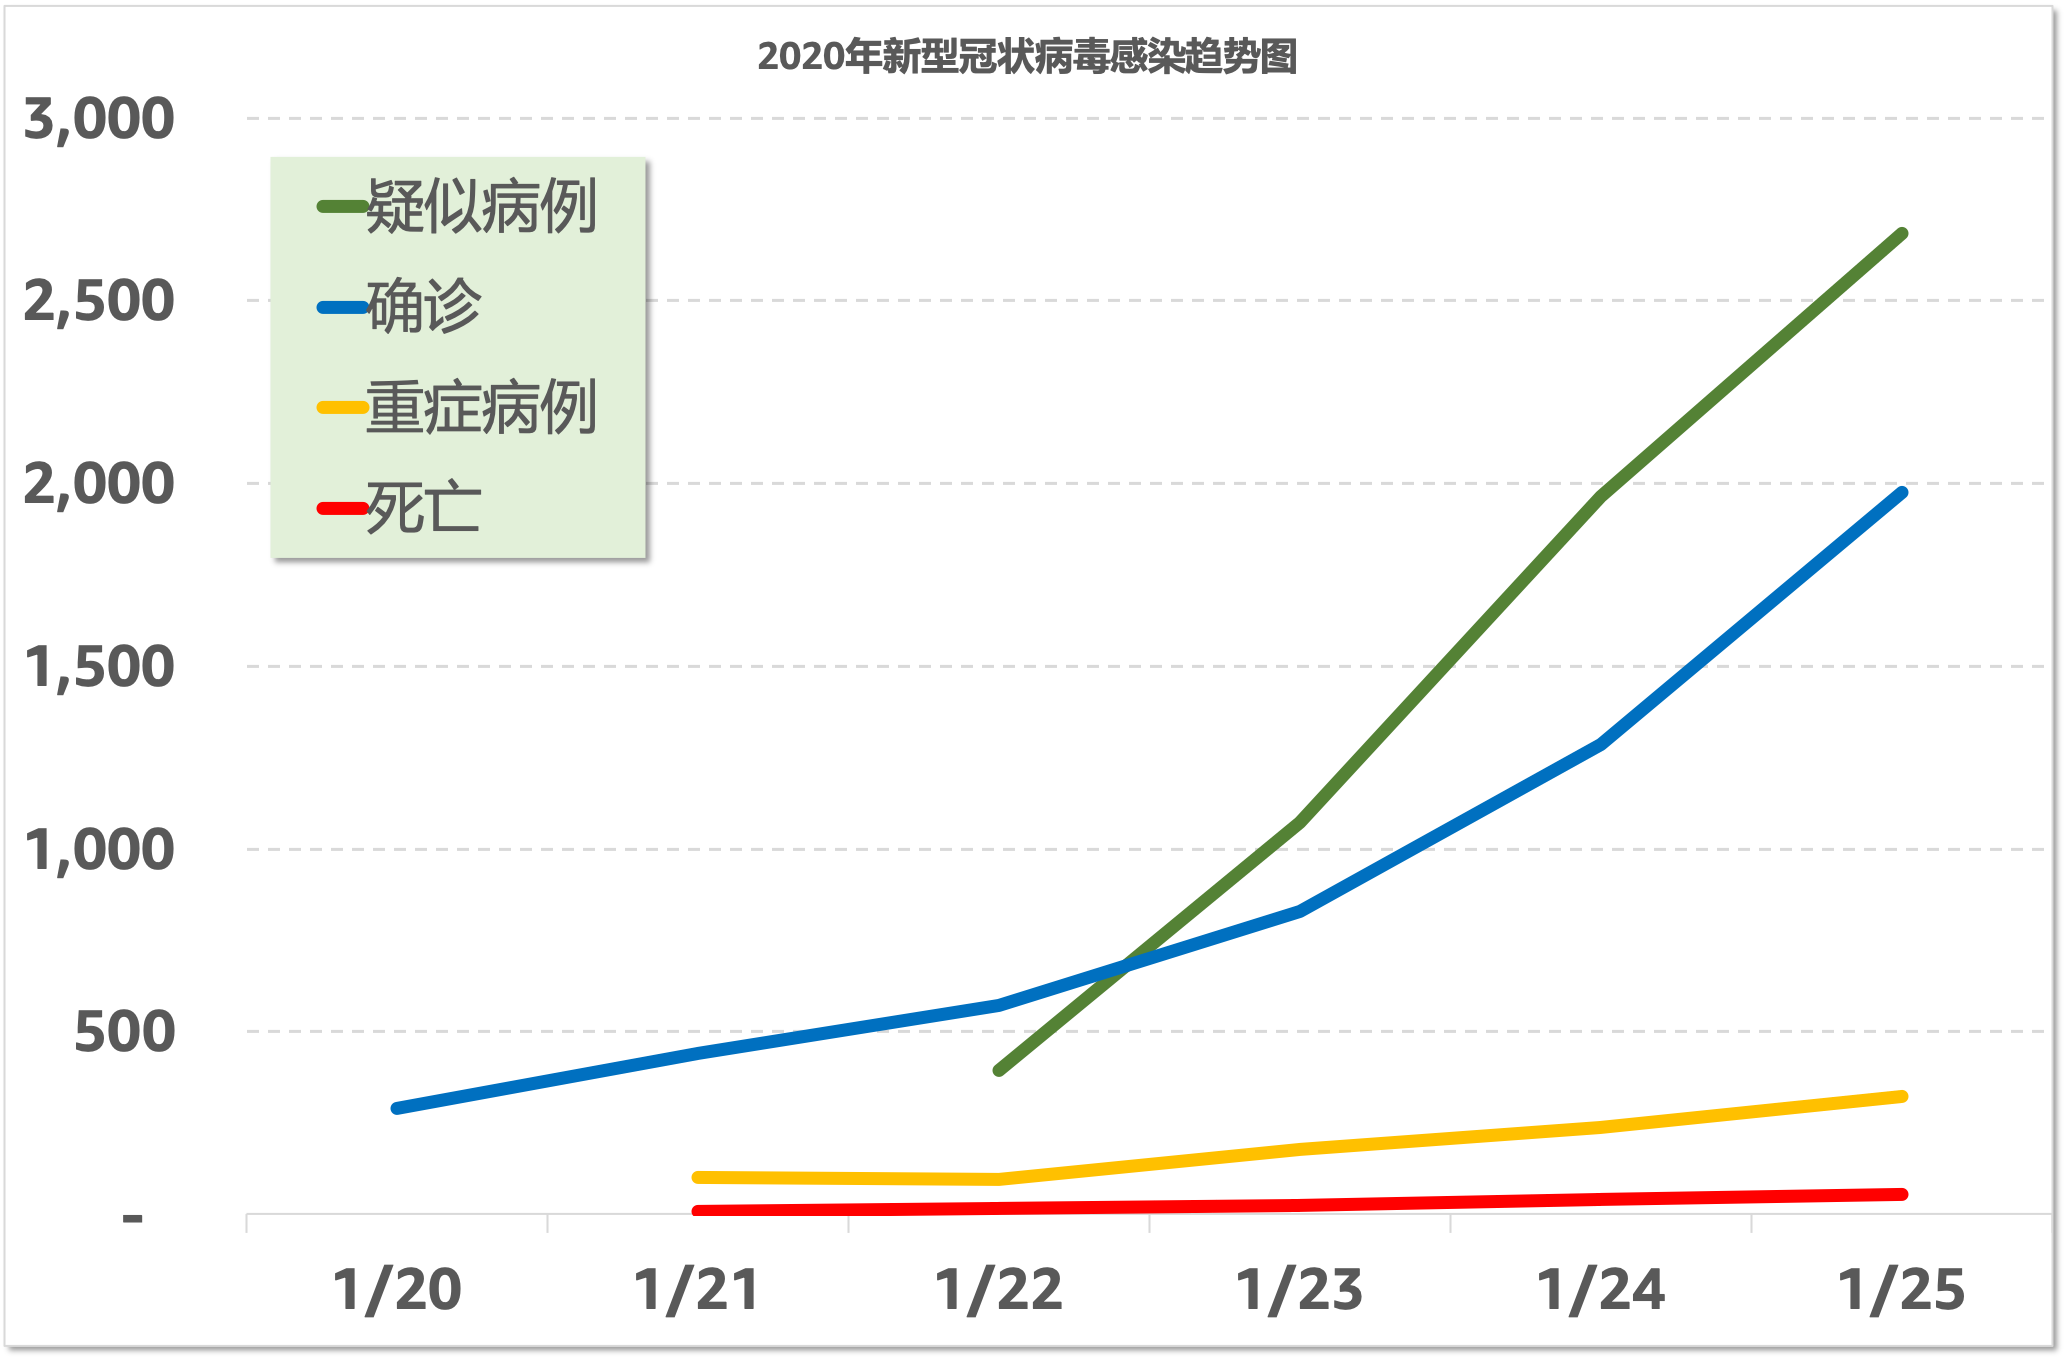
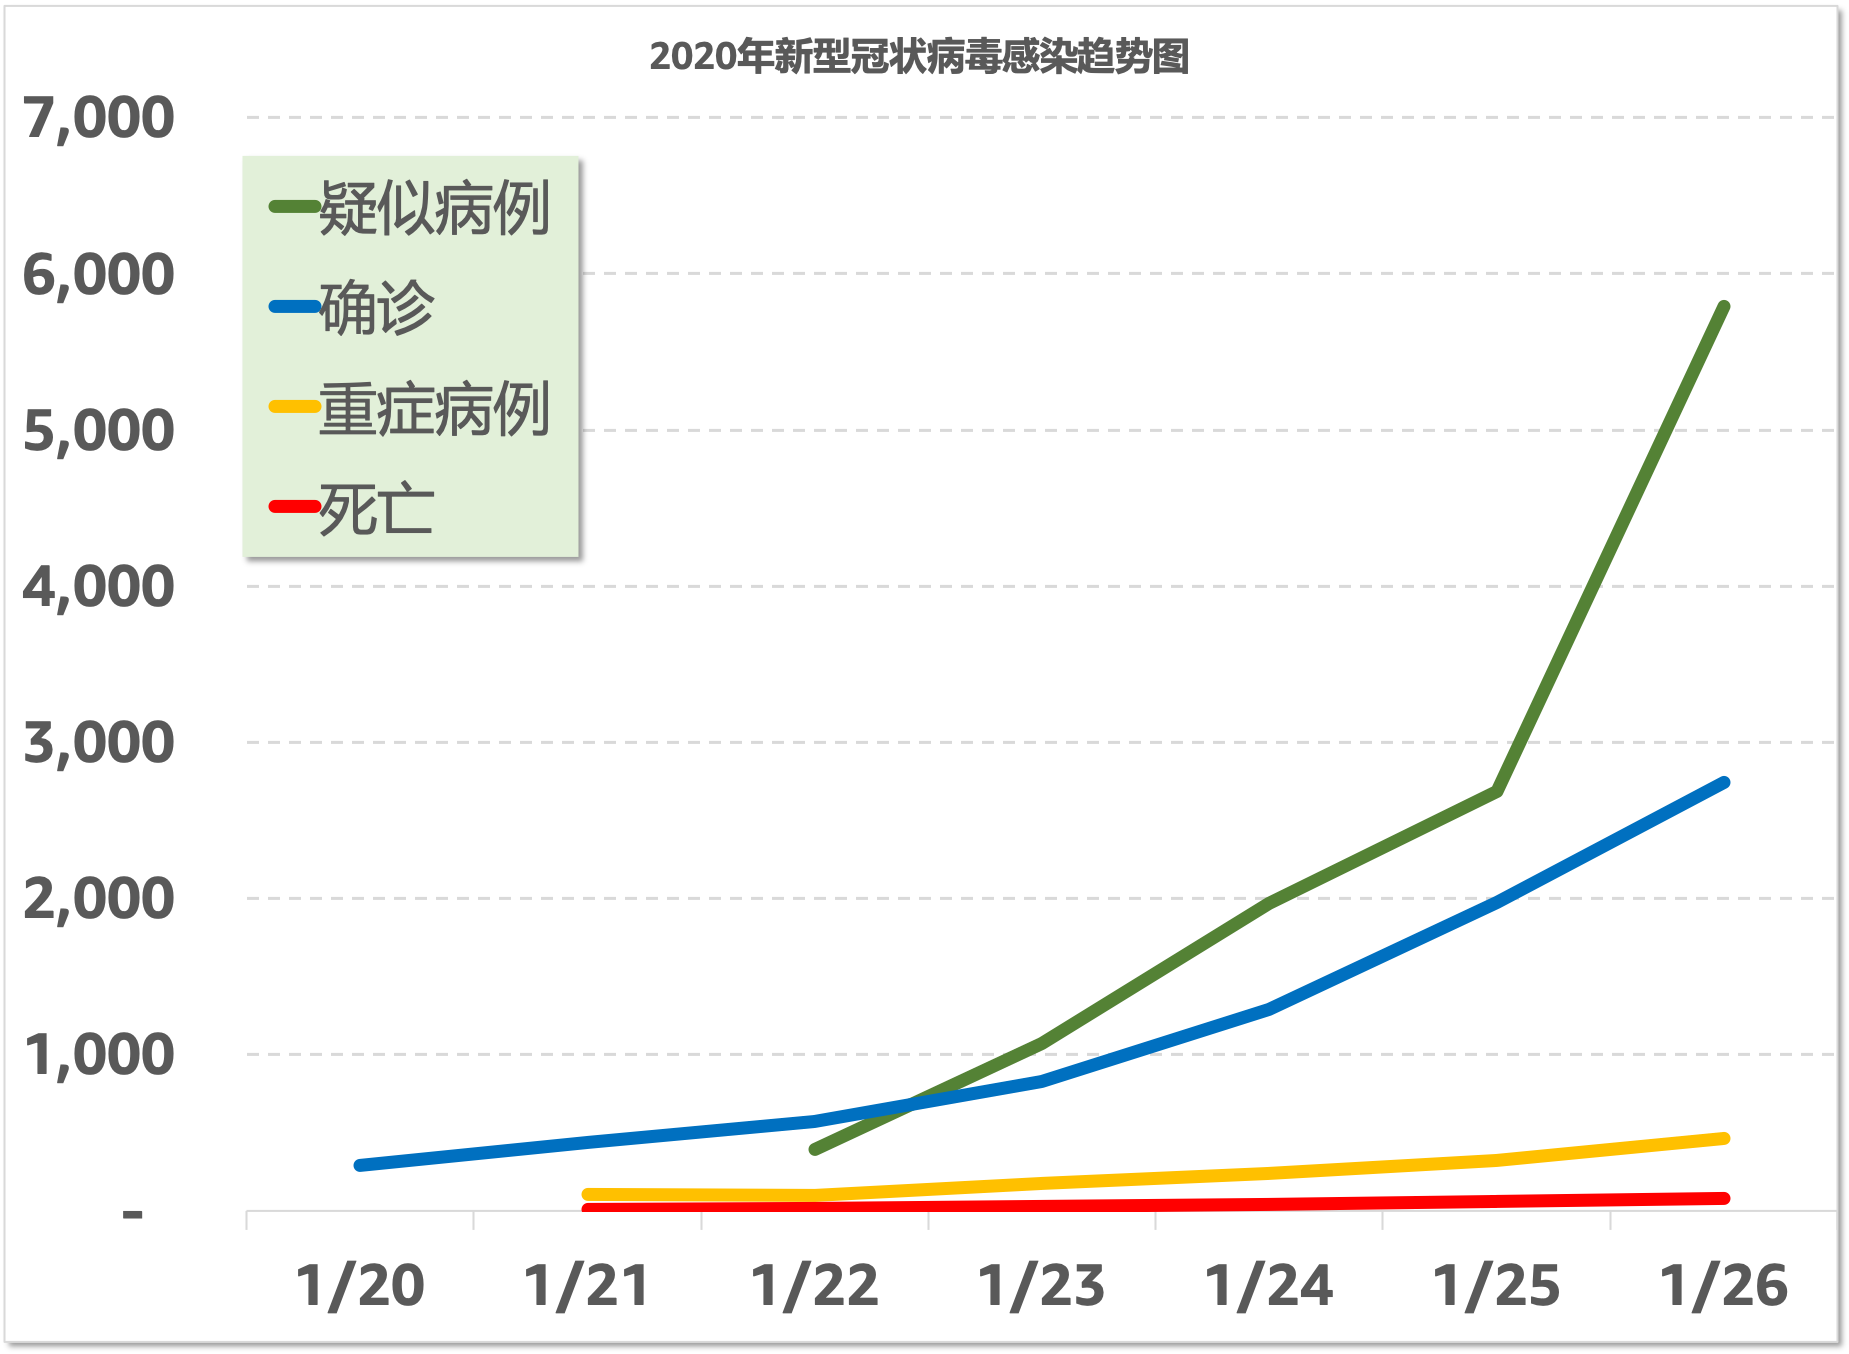
Update for 1/26 data

diff --git a/README.md b/README.md
@@ -4,6 +4,7 @@
 
 这是根据卫建委发布的官方数据制作的每日疫情发展趋势图。每日830~930之间根据卫建委发布的最新疫情通报更新。
 
+- 更新时间: **`09:39, 1/27/2020`**
 - [网页地址](https://zire.github.io/pandemic2020/)
 - [Github Repo地址](https://github.com/zire/pandemic2020)
 - 数据来源：[中华人民共和国国家卫生健康委员会卫生应急办公室](http://www.nhc.gov.cn/)
@@ -21,7 +22,8 @@
 
 | 日期 | 密切接触 | 接受医学观察 | 疑似病例 | 确诊 | 重症病例 | 死亡 |
 | --- | --- | --- | --- | --- | --- | --- |
-| 1/25/2020 | 23,431 | 21,556| 2,684|1,975| 324|56|
+|1/26/2020|32,799|30,453|5,794|2,744|461|80|
+|1/25/2020 | 23,431 | 21,556| 2,684|1,975| 324|56|
 |1/24/2020|15,197|13,967|1,965|1,287|237|41|
 |1/23/2020|9,507|8,420|1,072|830|177|25|
 |1/22/2020|5,897|4,928|393|571|95|17|
@@ -32,6 +34,7 @@
 
 | 日期 | 密切接触 | 接受医学观察 | 疑似病例 | 确诊 | 重症病例 | 死亡 |
 | --- | --- | --- | --- | --- | --- | --- |
+|1/26/2020|40%|41%|116%|39%|42%|43%|
 | 1/25/2020 | 54% | 54% | 37%|53%| 37%|37%|
 |1/24/2020|60%|66%|83%|55%|34%|64%|
 |1/23/2020|61%|71%|173%|45%|86%|47%|
@@ -40,9 +43,9 @@
 
 ## 数据来源
 
+- [截至1月26日24时新型冠状病毒感染的肺炎疫情最新情况](http://www.nhc.gov.cn/xcs/yqfkdt/202001/3882fdcdbfdc4b4fa4e3a829b62d518e.shtml)
 - [截至1月25日24时新型冠状病毒感染的肺炎疫情最新情况](http://www.nhc.gov.cn/xcs/yqfkdt/202001/9614b05a8cac4ffabac10c4502fe517c.shtml)
 - [截至1月24日24时新型冠状病毒感染的肺炎疫情最新情况](http://www.nhc.gov.cn/xcs/yqtb/202001/a7cf0437d1324aed9cc1b890b8ee29e6.shtml)
 - [1月23日新型冠状病毒感染的肺炎疫情情况](http://www.nhc.gov.cn/xcs/yqtb/202001/5d19a4f6d3154b9fae328918ed2e3c8a.shtml)
 - [1月22日新型冠状病毒感染的肺炎疫情情况](http://www.nhc.gov.cn/xcs/yqtb/202001/a3c8b5144067417889d8760254b1a7ca.shtml)
 - [1月21日新型冠状病毒感染的肺炎疫情情况](http://www.nhc.gov.cn/xcs/yqtb/202001/930c021cdd1f46dc832fc27e0cc465c8.shtml)
-
